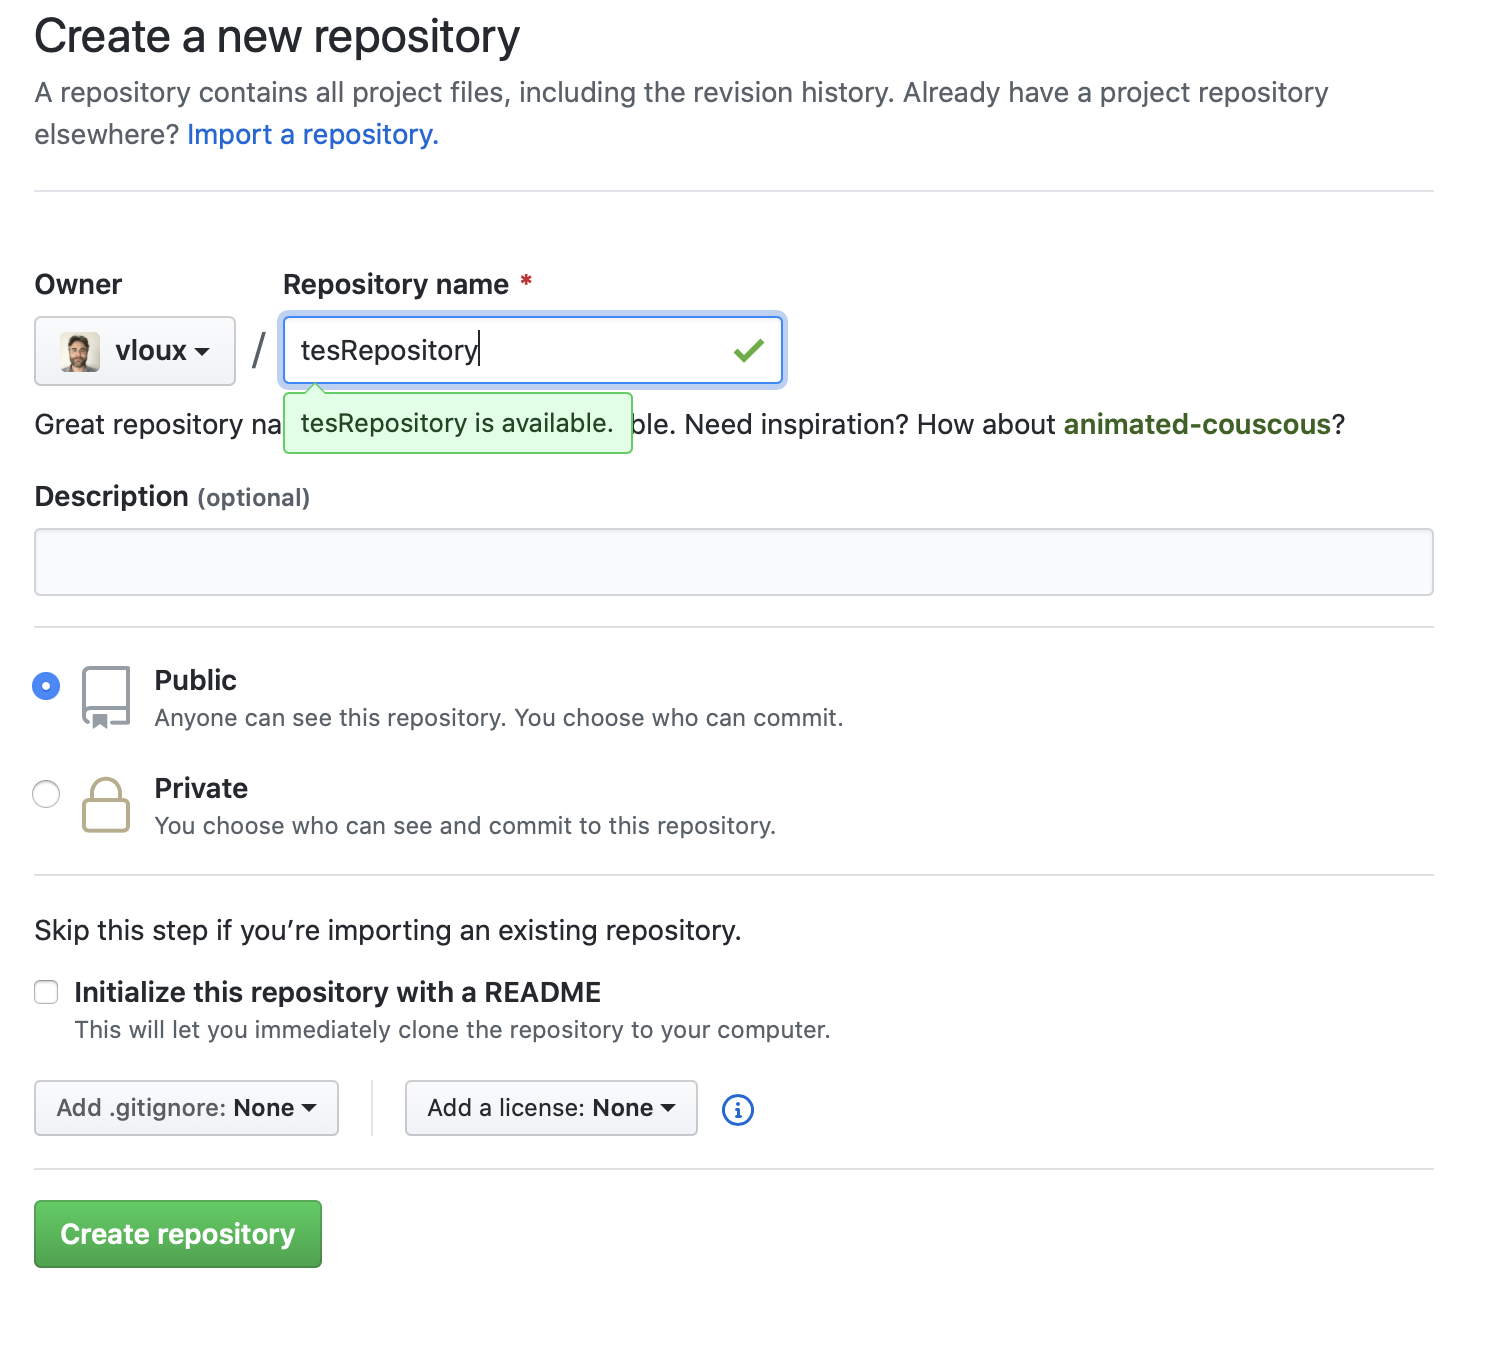
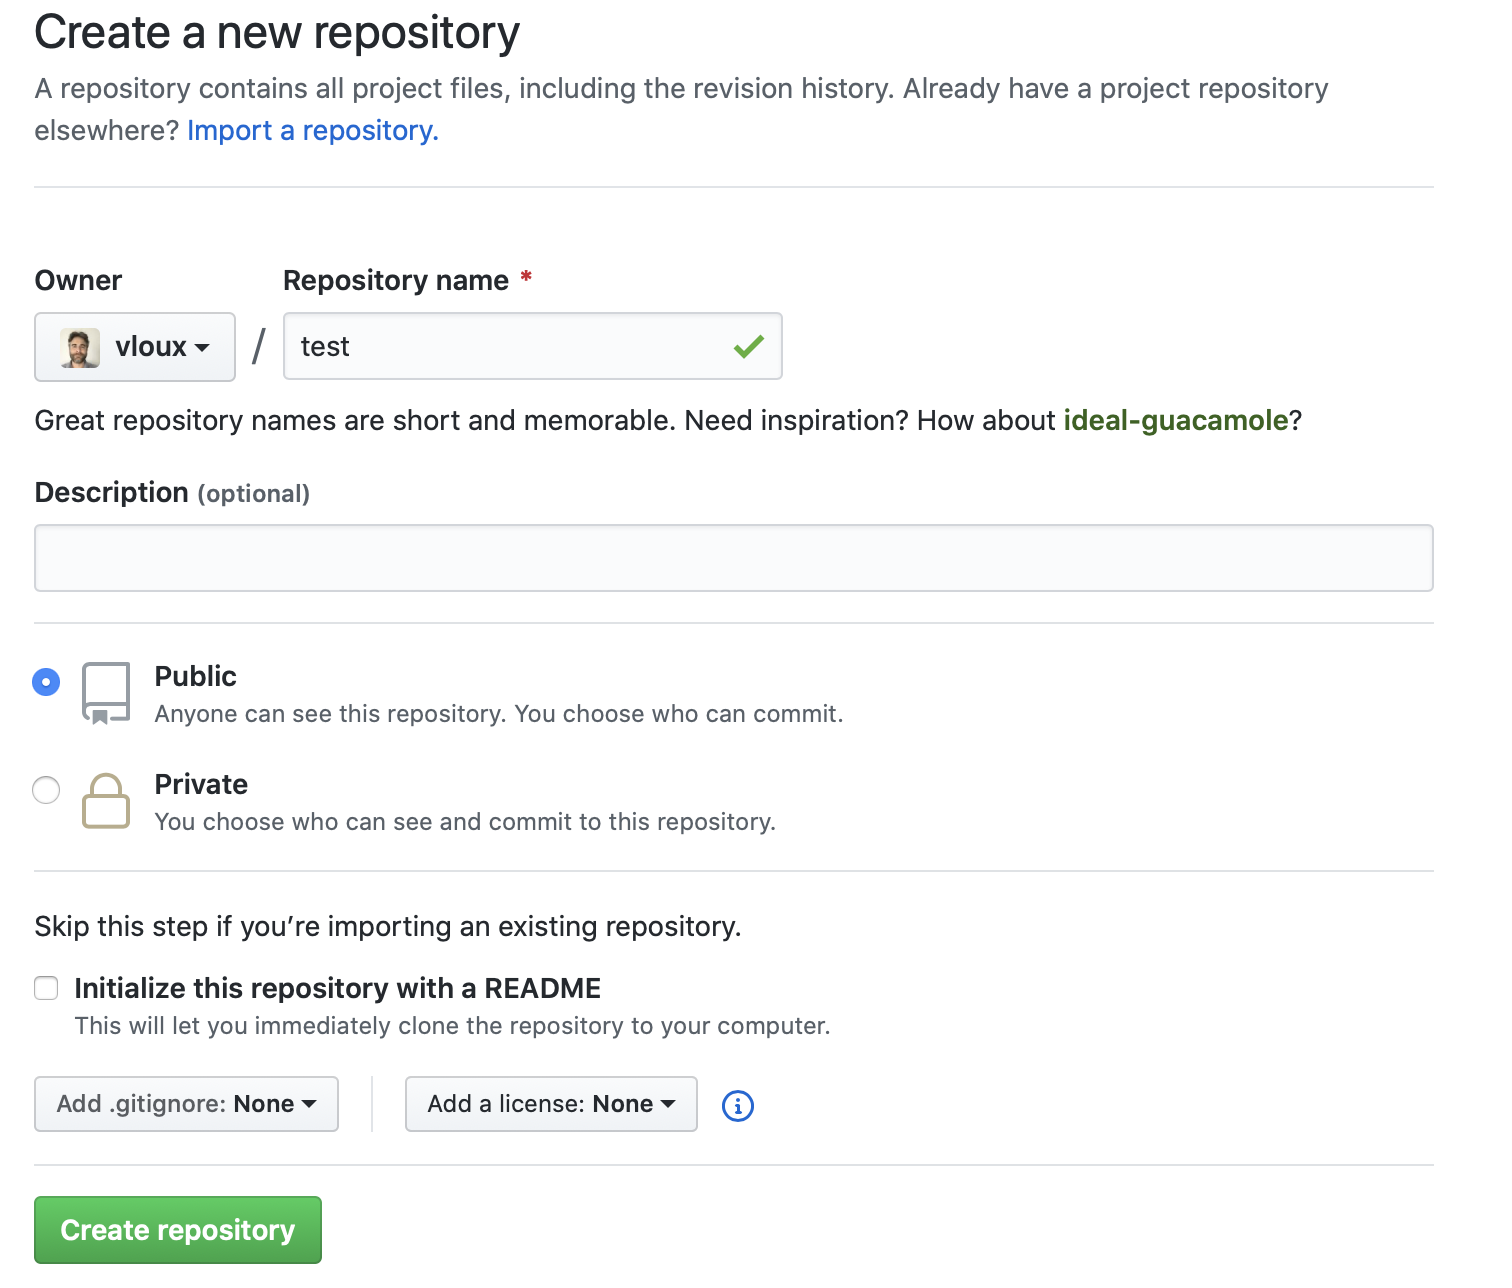
Typos + reformulations TP

diff --git a/seance5/slides.html b/seance5/slides.html
@@ -90,7 +90,7 @@ Un problème vieux comme la bioinformatique :
 - En 2009, moins de la moitié des experiences de transcriptomique parues dans Nature Genetics n'ont pu être reproduites 
 - Sur 50 articles citant BWA en 2011, 31 ne citent ni version, ni paramètres. 26 ne donnent pas accès aux données sous-jacentes
 - Selon un sondage mené auprès de plus de 1500 biologistes
-  - 70% ont déjà éprouvé des difficultés à reproduire une analyse &lt;a name=cite-Baker2016&gt;&lt;/a&gt;([Baker, 2016](https://doi.org/10.1038/533452a))
+  - 70% ont déjà éprouvé des difficultés à reproduire une analyse ([Baker, 2016](https://doi.org/10.1038/533452a))
 
 - [Ten Years Reproducibility Challenge](https://github.com/ReScience/ten-years) refaire ses analyses d'il y a 10 ans …
 
@@ -131,7 +131,7 @@ Un problème vieux comme la bioinformatique :
 - Chacun peut déjà, par l'utilisation d'outils conviviaux, améliorer la reproductibilité de ses travaux
 
 
-Source : &lt;a name=cite-allard&gt;&lt;/a&gt;([Allard, 2018](https://laviedesidees.fr/La-crise-de-la-replicabilite.html)) 
+Source : ([Allard, 2018](https://laviedesidees.fr/La-crise-de-la-replicabilite.html)) 
 &lt;!-- https://laviedesidees.fr/La-crise-de-la-replicabilite.html --&gt;
 
 ---
@@ -185,11 +185,7 @@ Principes autour des données au sens large :
 
 ]
 
-&lt;a name=cite-Wilkinson2016&gt;&lt;/a&gt;([Wilkinson, Dumontier, Aalbersberg, Appleton, Axton, Baak, Blomberg, Boiten, da
-Silva Santos, Bourne, Bouwman, Brookes, Clark, Crosas, Dillo, Dumon, Edmunds, Evelo, Finkers, Gonzalez-Beltran, Gray, Groth, Goble, Grethe, Heringa, Hoen, Hooft, Kuhn, Kok, Kok, Lusher, Martone, Mons, Packer, Persson, Rocca-Serra, Roos, van
-Schaik, Sansone, Schultes, Sengstag, Slater, Strawn, Swertz, Thompson, van der
-Lei, van
-Mulligen, Velterop, Waagmeester, Wittenburg, Wolstencroft, Zhao, and Mons, 2016](https://doi.org/10.1038/sdata.2016.18)) 
+([Wilkinson, Dumontier, Aalbersberg, et al., 2016](https://doi.org/10.1038/sdata.2016.18)) 
 
 ---
 
@@ -199,7 +195,7 @@ Mulligen, Velterop, Waagmeester, Wittenburg, Wolstencroft, Zhao, and Mons, 2016]
 &lt;img src="images/reproducibility-spectrum.png" alt="Spectre de la reproductibilité," width="100%" /&gt;
 &lt;p class="caption"&gt;Spectre de la reproductibilité,&lt;/p&gt;
 &lt;/div&gt;
-Source : &lt;a name=cite-piazzi&gt;&lt;/a&gt;([Piazzi, Cerqueira, Manso, and Duque, 2018](#bib-piazzi)) 
+Source : ([Piazzi, Cerqueira, Manso, et al., 2018](#bib-piazzi)) 
 
 ---
 # L'outillage
@@ -248,7 +244,7 @@ class: inverse, center, middle
 # Partie 1 : Organiser son espace de travail 
 .pull-left[
 ![](https://journals.plos.org/ploscompbiol/article/figure/image?size=large&amp;id=info:doi/10.1371/journal.pcbi.1000424.g001)
-Source : &lt;a name=cite-noble&gt;&lt;/a&gt;([Noble, 2009](https://doi.org/10.1371/journal.pcbi.1000424))  
+Source : ([Noble, 2009](https://doi.org/10.1371/journal.pcbi.1000424))  
 
 ]
 
@@ -265,7 +261,7 @@ Séparer
 
 ![](images/wilson-box1.png)
 
-Source : &lt;a name=cite-Wilson&gt;&lt;/a&gt;([Wilson, Bryan, Cranston, Kitzes, Nederbragt, and Teal, 2017](https://doi.org/10.1371/journal.pcbi.1005510)) 
+Source : ([Wilson, Bryan, Cranston, et al., 2017](https://doi.org/10.1371/journal.pcbi.1005510)) 
 
 
 ---
@@ -461,7 +457,6 @@ Initialized empty Git repository in /Users/vloux/tmp/testRepo/.git/
 ## 2. Ajouter un document (en local)
 
 ```
-touch firstFile
 echo 'my first line' &gt; firstFile
 
 git status
@@ -469,7 +464,6 @@ git status
 
 --
 ```
-vloux@jj-1404-port196 ~/t/testRepo&gt; touch firstFile
 vloux@jj-1404-port196 ~/t/testRepo&gt; echo 'my first line' &gt; firstFile
 
 vloux@jj-1404-port196 ~/t/testRepo&gt;   git status
@@ -512,7 +506,7 @@ nothing to commit, working tree clean
 ## 4. Workflow de modification (en local)
 .pull-left[
 ```
-echo 'second modif' &gt;&gt; firstFile
+echo 'seconde modif' &gt;&gt; firstFile
 
 git status
 git diff
@@ -555,47 +549,58 @@ On branch master
 ---
 ## 5. Initialisation du dépôt distant (Github)
 
-- Créer un dépôt distant sur Github (2)
+.pull-left[
+- Créer le dépôt distant sur Github
 - Noter l'adresse du dépôt dans l'écran suivant.
-&lt;img src="images/github-create-repo.png" width="50%" style="display: block; margin: auto 0 auto auto;" /&gt;
-
-&lt;&lt;&lt;&lt;&lt;&lt;&lt; HEAD
+&lt;img src="images/github-create-repo.png" width="100%" style="display: block; margin: auto 0 auto auto;" /&gt;
+]
+--
+.pull-right[
+&lt;img src="images/github-createrepo-2.png" width="100%" style="display: block; margin: auto 0 auto auto;" /&gt;
+]
 ---
 # TP : Utilisation de GitHub
-=======
-&gt;&gt;&gt;&gt;&gt;&gt;&gt; eab47476211b45bbcd21f929dc95a681f8aca75d
 ## 6. Lier le dépôt local et distant
+
+- La commande `git remote` permet de lier notre dépôt à un dépôt distant, ici `test.git`
+- Par convention, on appelle ce dépôt `origin`
+
+
+
 ```
-git remote add origin git@github.com:vloux/myFirstRepo.git
+git remote add origin git@github.com:vloux/test.git
 git remote -v
 
 ```
 --
 ```
-vloux@jj-1404-port196 ~/t/testRepo&gt; git remote add origin git@github.com:vloux/tesRepository.git
+vloux@jj-1404-port196 ~/t/testRepo&gt; git remote add origin git@github.com:vloux/test.git
 vloux@jj-1404-port196 ~/t/testRepo&gt; git remote -v
-origin	git@github.com:vloux/tesRepository.git (fetch)
-origin	git@github.com:vloux/tesRepository.git (push)
+origin	git@github.com:vloux/test.git (fetch)
+origin	git@github.com:vloux/test.git (push)
 
 ```
 ---
 # TP : Utilisation de GitHub
 ## 7. Pousser les modifications locales sur le dépôt distant
 
+LA commande `push`pousse les modifications de la branche `master` (la branche par défaut locale) sur la branche `origin`(le nom de la branche distante). Le paramètre `-u` permet de créer la branche de reférence distante et de lier les branches disatntes et locales (et ainsi de se passer des arguments `origin` `master` par la suite)
+
 ```
-git push origin master --set-upstream origin master
+git push origin master -u 
 ```
 --
 ```
-vloux@jj-1404-port196 ~/t/testRepo&gt; git push  --set-upstream origin master
+vloux@jj-1404-port196 ~/t/testRepo&gt; git push  origin master -u
 Enumerating objects: 6, done.
 Counting objects: 100% (6/6), done.
 Delta compression using up to 8 threads
 Compressing objects: 100% (2/2), done.
-Writing objects: 100% (6/6), 492 bytes | 492.00 KiB/s, done.
+Writing objects: 100% (6/6), 489 bytes | 489.00 KiB/s, done.
 Total 6 (delta 0), reused 0 (delta 0)
-To github.com:vloux/tesRepository.git
+To github.com:vloux/test.git
  * [new branch]      master -&gt; master
+Branch 'master' set up to track remote branch 'master' from 'origin'
 ```
 ---
 # TP : Utilisation de GitHub
@@ -633,8 +638,11 @@ git merge
 git pull
 ```
 ]
-.pull-right[
+
 --
+
+.pull-right[
+
 ```
 vloux@jj-1404-port196 ~/t/testRepo&gt; git fetch
 remote: Enumerating objects: 7, done.
@@ -642,7 +650,7 @@ remote: Counting objects: 100% (7/7), done.
 remote: Compressing objects: 100% (4/4), done.
 remote: Total 6 (delta 0), reused 0 (delta 0), pack-reused 0
 Unpacking objects: 100% (6/6), done.
-From github.com:vloux/tesRepository
+From github.com:vloux/test
    b3a2b4c..c61dab3  master     -&gt; origin/master
 vloux@jj-1404-port196 ~/t/testRepo&gt; git merge
 Updating b3a2b4c..c61dab3
@@ -699,6 +707,22 @@ index b1a9f66..d491802 100644
  my first line
 +second modif
 ```
+
+
+---
+# TP : utilisation de Git et GitHub. 
+## Cloner un dépôt existant
+
+- Dans le cas d'un dépôt distant existant, on peut directement le cloner en local. Il est lié au dépot distant et les modifications peuvenat ainis être récupérées ( `pull`) ou poussées ( `push`) sans avoir besoin de d'abord configurer les liens avec le dépôt distant.
+
+```
+git clone git@github.com:vloux/test.git
+
+git remote -v
+
+
+```
+
 ---
 # En résumé 
 
@@ -715,6 +739,9 @@ et bien d'autres encore (``blame``, revert`,…)
 ---
 # Pour apprendre progressivement et/ou se simplifier la vie
 
+- Partir de d^pots que l'on crée sur Github et clone en local.
+
+Utiliser une interface conviviale :
 - Github Desktop
 - Les intégration aux différents IDE (RStudio and co)
 
@@ -773,7 +800,7 @@ class: inverse, center, middle
 
 .center[![russo2016](https://www.researchgate.net/profile/Dario_Righelli/publication/306538473/figure/fig2/AS:391153263366144@1470269613039/This-figure-explains-the-basic-idea-of-Reproducible-Research-The-raw-data-needs-to-be_W640.jpg)]
 
-&lt;a name=cite-russo&gt;&lt;/a&gt;([Russo, Righelli, and Angelini, 2016](https://doi.org/10.1007/978-3-319-44332-4_19))
+([Russo, Righelli, and Angelini, 2016](https://doi.org/10.1007/978-3-319-44332-4_19))
 
 Encore un joli [mémo](https://www.rstudio.org/links/r_markdown_cheat_sheet) pour R markdown. 
 
@@ -882,8 +909,7 @@ Des bonnes pratiques appuyées par des outils qui les facilitent
 # Pour aller plus loin - Fixer et partager son environnement (2) 
 .center[![Singularity](https://ars.els-cdn.com/content/image/1-s2.0-S2405471218301406-gr1.jpg)]
 
-&lt;a name=cite-Bjorn2018&gt;&lt;/a&gt;([Grüning, Chilton, Köster, Dale, Soranzo, van den
-Beek, Goecks, Backofen, Nekrutenko, and Taylor, 2018](https://doi.org/10.1016/j.cels.2018.03.014)) 
+([Grüning, Chilton, Köster, et al., 2018](https://doi.org/10.1016/j.cels.2018.03.014)) 
 
 ---
 # Pour aller + loin - gestionnaires de workflows
@@ -983,52 +1009,37 @@ Au final, toujours se poser la question du rapport coût / bénéfice.
 
 # References
 
-&lt;a name=bib-allard&gt;&lt;/a&gt;[Allard, A.](#cite-allard) (2018). _La crise de
-la réplicabilité_. URL:
+&lt;a name=bib-allard&gt;&lt;/a&gt;[Allard, A.](#cite-allard) (2018). _La crise de la réplicabilité_. URL:
 [https://laviedesidees.fr/La-crise-de-la-replicabilite.html](https://laviedesidees.fr/La-crise-de-la-replicabilite.html).
 
-&lt;a name=bib-Baker2016&gt;&lt;/a&gt;[Baker, M.](#cite-Baker2016) (2016). "1, 500
-scientists lift the lid on reproducibility". In: _Nature_ 533.7604, pp.
-452-454. DOI: [10.1038/533452a](https://doi.org/10.1038%2F533452a).
-URL:
+&lt;a name=bib-Baker2016&gt;&lt;/a&gt;[Baker, M.](#cite-Baker2016) (2016). "1, 500 scientists lift the lid on reproducibility". In: _Nature_
+533.7604, pp. 452-454. DOI: [10.1038/533452a](https://doi.org/10.1038%2F533452a). URL:
 [https://doi.org/10.1038/533452a](https://doi.org/10.1038/533452a).
 
-&lt;a name=bib-Bjorn2018&gt;&lt;/a&gt;[Grüning, B, J. Chilton, J. Köster, et
-al.](#cite-Bjorn2018) (2018). "Practical Computational Reproducibility
-in the Life Sciences". In: _Cell Systems_ 6.6, pp. 631-635. DOI:
-[10.1016/j.cels.2018.03.014](https://doi.org/10.1016%2Fj.cels.2018.03.014).
-URL:
+&lt;a name=bib-Bjorn2018&gt;&lt;/a&gt;[Grüning, B, J. Chilton, J. Köster, et al.](#cite-Bjorn2018) (2018). "Practical Computational
+Reproducibility in the Life Sciences". In: _Cell Systems_ 6.6, pp. 631-635. DOI:
+[10.1016/j.cels.2018.03.014](https://doi.org/10.1016%2Fj.cels.2018.03.014). URL:
 [https://doi.org/10.1016/j.cels.2018.03.014](https://doi.org/10.1016/j.cels.2018.03.014).
 
-&lt;a name=bib-noble&gt;&lt;/a&gt;[Noble, W. S.](#cite-noble) (2009). "A Quick
-Guide to Organizing Computational Biology Projects". In: _PLOS
-Computational Biology_ 5.7, pp. 1-5. DOI:
-[10.1371/journal.pcbi.1000424](https://doi.org/10.1371%2Fjournal.pcbi.1000424).
-URL:
+&lt;a name=bib-noble&gt;&lt;/a&gt;[Noble, W. S.](#cite-noble) (2009). "A Quick Guide to Organizing Computational Biology Projects". In: _PLOS
+Computational Biology_ 5.7, pp. 1-5. DOI: [10.1371/journal.pcbi.1000424](https://doi.org/10.1371%2Fjournal.pcbi.1000424). URL:
 [https://doi.org/10.1371/journal.pcbi.1000424](https://doi.org/10.1371/journal.pcbi.1000424).
 
-&lt;a name=bib-piazzi&gt;&lt;/a&gt;[Piazzi, A. C, A. S. Cerqueira, L. R. Manso, et
-al.](#cite-piazzi) (2018). "Reproducible research platform for electric
-power quality algorithms" , pp. 1-6.
+&lt;a name=bib-piazzi&gt;&lt;/a&gt;[Piazzi, A. C, A. S. Cerqueira, L. R. Manso, et al.](#cite-piazzi) (2018). "Reproducible research platform for
+electric power quality algorithms" , pp. 1-6.
 
-&lt;a name=bib-russo&gt;&lt;/a&gt;[Russo, F., D. Righelli, and C.
-Angelini](#cite-russo) (2016). "Advantages and Limits in the Adoption
-of Reproducible Research and R-Tools for the Analysis of Omic Data".
-In: Vol. 9874. , pp. 245-258. DOI:
+&lt;a name=bib-russo&gt;&lt;/a&gt;[Russo, F., D. Righelli, and C. Angelini](#cite-russo) (2016). "Advantages and Limits in the Adoption of
+Reproducible Research and R-Tools for the Analysis of Omic Data". In: Vol. 9874. , pp. 245-258. DOI:
 [10.1007/978-3-319-44332-4_19](https://doi.org/10.1007%2F978-3-319-44332-4_19).
 
-&lt;a name=bib-Wilkinson2016&gt;&lt;/a&gt;[Wilkinson, M. D, M. Dumontier, I. J.
-Aalbersberg, et al.](#cite-Wilkinson2016) (2016). "The FAIR Guiding
-Principles for scientific data management and stewardship". In:
-_Scientific Data_ 3.1. DOI:
+&lt;a name=bib-Wilkinson2016&gt;&lt;/a&gt;[Wilkinson, M. D, M. Dumontier, I. J. Aalbersberg, et al.](#cite-Wilkinson2016) (2016). "The FAIR
+Guiding Principles for scientific data management and stewardship". In: _Scientific Data_ 3.1. DOI:
 [10.1038/sdata.2016.18](https://doi.org/10.1038%2Fsdata.2016.18). URL:
 [https://doi.org/10.1038/sdata.2016.18](https://doi.org/10.1038/sdata.2016.18).
 
-&lt;a name=bib-Wilson&gt;&lt;/a&gt;[Wilson, G, J. Bryan, K. Cranston, et
-al.](#cite-Wilson) (2017). "Good enough practices in scientific
+&lt;a name=bib-Wilson&gt;&lt;/a&gt;[Wilson, G, J. Bryan, K. Cranston, et al.](#cite-Wilson) (2017). "Good enough practices in scientific
 computing". In: _PLOS Computational Biology_ 13, pp. 1-20. DOI:
-[10.1371/journal.pcbi.1005510](https://doi.org/10.1371%2Fjournal.pcbi.1005510).
-URL:
+[10.1371/journal.pcbi.1005510](https://doi.org/10.1371%2Fjournal.pcbi.1005510). URL:
 [https://doi.org/10.1371/journal.pcbi.1005510](https://doi.org/10.1371/journal.pcbi.1005510).
     </textarea>
 <style data-target="print-only">@media screen {.remark-slide-container{display:block;}.remark-slide-scaler{box-shadow:none;}}</style>
